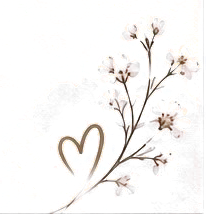
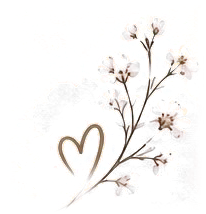
Ajoute le portrait de Mélanie (page Mon univers et accueil)
- resources/photos/site/portrait.jpg : grand portrait de la page
  « Mon univers » et de la section « Mon univers » de l'accueil.
- Texte alternatif « Mélanie, photographe à Dijon » pour portrait.jpg
  (le nom de l'emplacement ne décrit pas la photo).
- Accueil : la fleur passe derrière le portrait, et son voile aquarelle
  s'estompe sur les bords de l'image (plus de rectangle visible).

Claude-Session: https://claude.ai/code/session_01C5YcTmXuq4d5R7qKZMAnsd

Changed region(s): [[0.0, 0.9252, 0.9903, 1.0], [0.932, 0.2804, 0.9612, 0.3084]]

diff --git a/resources/js/pages/Accueil.vue b/resources/js/pages/Accueil.vue
@@ -169,9 +169,10 @@ const mosaique = computed(() => (props.photos.mosaique.length ? props.photos.mos
     <!-- Mon univers -->
     <section class="relative isolate overflow-hidden bg-creme-200 py-24 sm:py-32">
         <div class="conteneur grid items-center gap-14 lg:grid-cols-2 lg:gap-20">
-            <div class="relative mx-auto w-full max-w-md">
+            <div class="relative isolate mx-auto w-full max-w-md">
                 <Photo :photo="photos.portrait" libelle="Votre portrait" sizes="(min-width: 1024px) 40vw, 90vw" class="aspect-[4/5] rounded-t-full" />
-                <Fleur variante="gypsophile-coeur" class="absolute -right-8 -bottom-12 w-36 sm:w-44" />
+                <!-- Derrière la photo : son voile aquarelle ne doit pas passer sur l'image -->
+                <Fleur variante="gypsophile-coeur" class="absolute -right-12 -bottom-20 -z-10 w-36 sm:w-44" />
             </div>
             <div class="text-center lg:text-left">
                 <p class="surtitre">Mon univers</p>

diff --git a/app/Support/Photos.php b/app/Support/Photos.php
@@ -188,6 +188,11 @@ class Photos
      */
     private function alt(string $dossier, string $nomFichier): string
     {
+        // « portrait.jpg » : le nom de l'emplacement ne décrit pas la photo.
+        if ($dossier === 'site' && Str::slug($nomFichier) === 'portrait') {
+            return self::ALT_PAR_DEFAUT['site'];
+        }
+
         $texte = trim(preg_replace('/^\d+\s*[-_.)]*\s*/', '', str_replace(['_', '-'], ' ', $nomFichier)));
 
         if ($texte === '' || preg_match('/^(img|dsc|dscf|dji|pxl|photo|_?mg|p)\s*\d+/i', $texte) || ! preg_match('/\p{L}{3,}/u', $texte)) {
